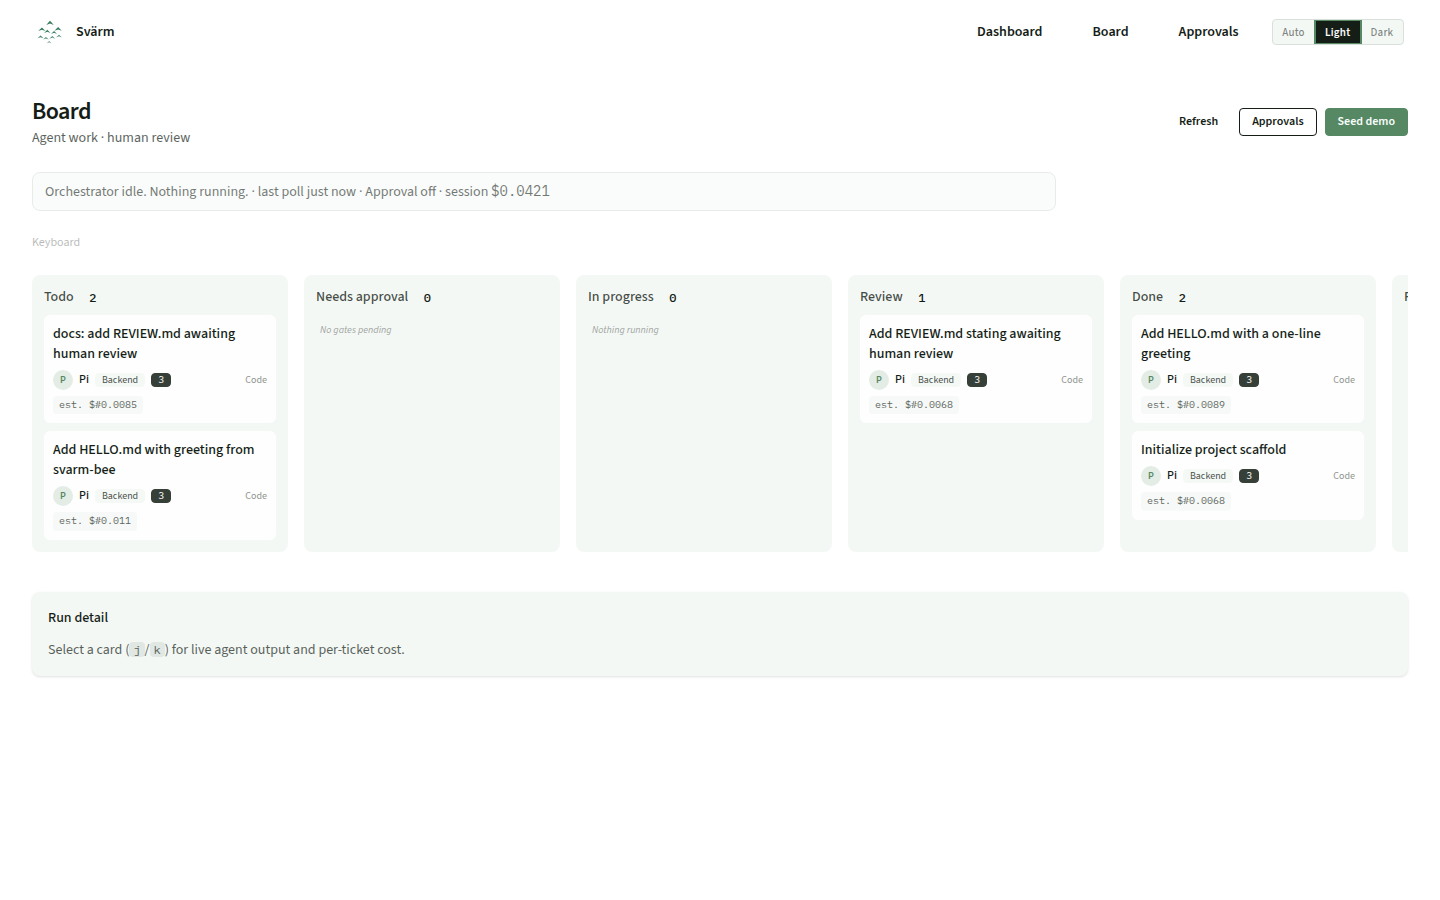
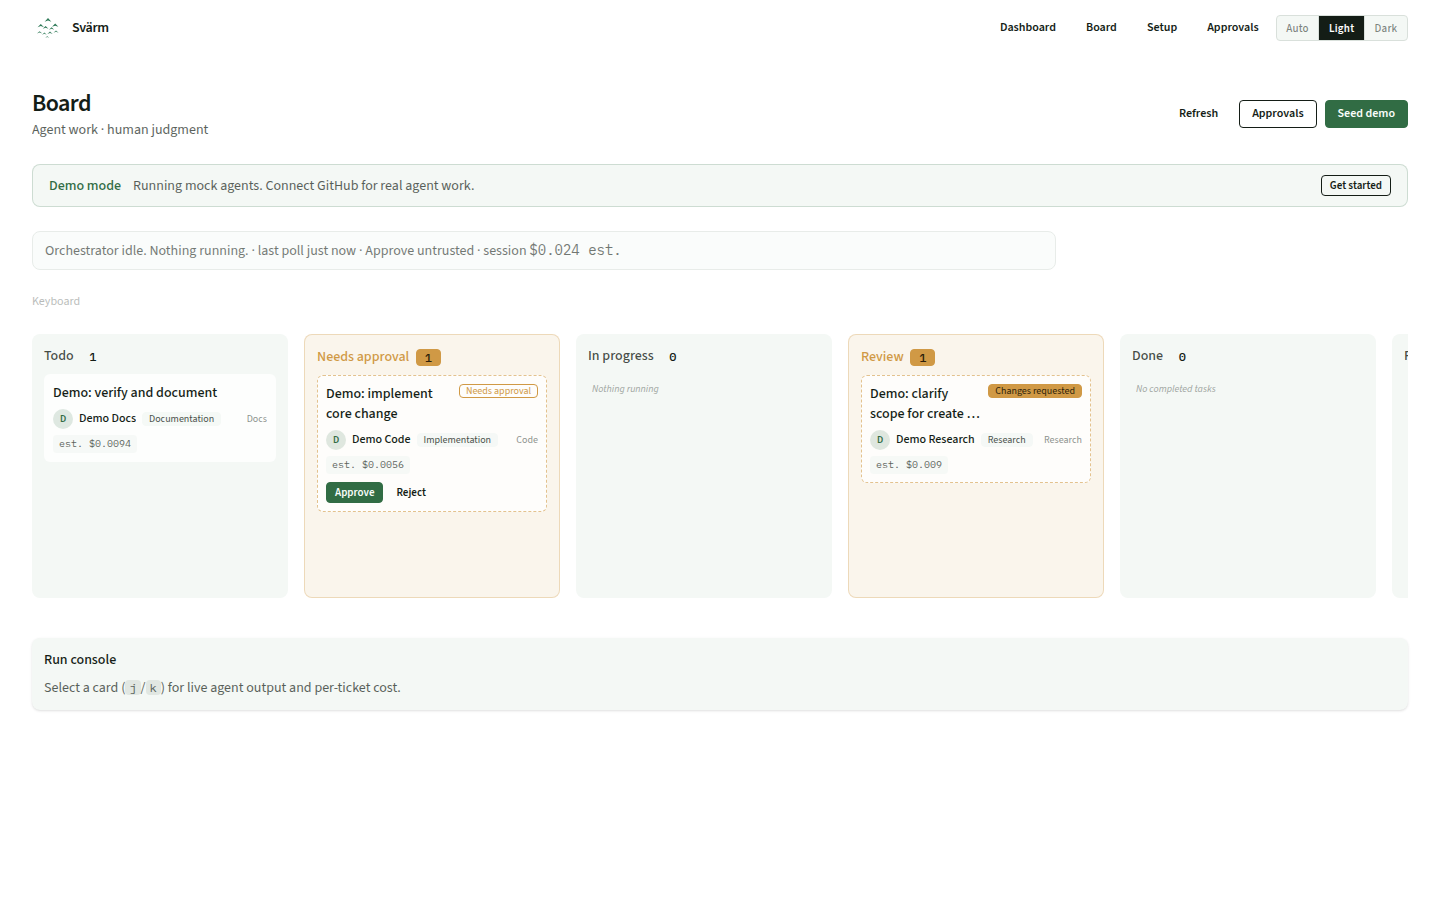
release: v0.1.4 run console and CI resume (#137)
* docs(screenshots): recapture README board, console, and dashboard

Replace stale 0.1.3-era shots with current light-theme UI: Setup in
nav, human judgment subtitle, typed run console, Changes requested
chip, and dashboard Spend Session/24h/7d plus Waiting on humans.

* release: cut v0.1.4 run console and CI resume

Bump mix.exs, move Unreleased into 0.1.4, point README Status at the
tag, and refresh STATUS. Review-resume stays detect-only.

---------

diff --git a/CHANGELOG.md b/CHANGELOG.md
@@ -7,10 +7,13 @@ and this project adheres to [Semantic Versioning](https://semver.org/spec/v2.0.0
 
 ## [Unreleased]
 
-Post-0.1.3 on `main` (not yet tagged): run console, optional CI resume, trust/perf hardening. Tagged release remains **v0.1.3**.
+## [0.1.4] - 2026-08-14
+
+Run console & CI resume. Optional CI-fail re-dispatch (default **off**). Review-resume is **detect-only** — no auto spawn (#113). No breaking env-inheritance change (that was 0.1.3).
 
 ### Added
 
+- **Typed stream run console** ([#110](https://github.com/svarm-dev/svarm/issues/110), [#111](https://github.com/svarm-dev/svarm/issues/111)): live path broadcasts v1 narrative, tool, and run events; BoardLive renders distinct chrome without duplicate compatibility lines; RunLog keeps a text projection and rehydrates compatible chrome on late join/re-selection (no schema change)
 - **Review-resume detection** ([#112](https://github.com/svarm-dev/svarm/issues/112)): poll GitHub PR reviews for managed tickets in **review**; record changes-requested state and show a board chip. **No auto re-dispatch** (follow-up #113). Same poll-on-tick path as CI Checks — no webhooks.
 - **Toolchain preflight contract** ([#108](https://github.com/svarm-dev/svarm/issues/108)): optional `tools` / `tools_mode` on agents (`fail` default, or `warn`); PATH-only check before spawn so missing host tools do not burn tokens; board `[toolchain: …]` note
 - **Sample skill pack `ai-task`** ([#52](https://github.com/svarm-dev/svarm/issues/52), [#124](https://github.com/svarm-dev/svarm/pull/124)): in-repo reference pack at `priv/packs/ai-task` (Docker `/app/packs/ai-task`); enable with `skills` on an agent — [docs/agents.md](docs/agents.md#sample-pack-ai-task)
@@ -24,7 +27,7 @@ Post-0.1.3 on `main` (not yet tagged): run console, optional CI resume, trust/pe
 
 - GETTING-STARTED journeys named by tracker topology, not lettered paths: **Feel the board** (local board, no tracker), **Real tracker loop** (external issue tracker — GitHub today), **Team hardening** ([#124](https://github.com/svarm-dev/svarm/pull/124))
 - Issue forms: **Ready to build** + **Epic** templates; Feature request clarified as ideas-only; CONTRIBUTING documents the forms
-- README Status lists post-0.1.3 capabilities on `main` (run console, optional CI resume) while **Current release** stays v0.1.3 until the next tag
+- README Status is **Current release: v0.1.4**; screenshots recaptured for current nav, run console, and dashboard spend chips ([#135](https://github.com/svarm-dev/svarm/issues/135), [#136](https://github.com/svarm-dev/svarm/issues/136))
 - README aligned with v0.1.3 governance floor: `/setup`, `APPROVALS_*` / budget env, agent env allowlist, estimated cost label, docs links ([#42](https://github.com/svarm-dev/svarm/pull/42))
 - Board card costs use SQL aggregates instead of per-card N+1 loads ([#66](https://github.com/svarm-dev/svarm/issues/66), [#93](https://github.com/svarm-dev/svarm/pull/93))
 - RunLog stream chunks coalesce in a buffer and append with SQL `content || ?` instead of full-row rewrite per delta ([#67](https://github.com/svarm-dev/svarm/issues/67), [#95](https://github.com/svarm-dev/svarm/pull/95))
@@ -185,7 +188,8 @@ Shipped surface in this cut: **local board + GitHub Issues + pi/CLI + OpenRouter
 
 - Agent credentials and API keys must come from the environment; never written into task metadata, PubSub events, or tracked config files
 
-[Unreleased]: https://github.com/svarm-dev/svarm/compare/v0.1.3...HEAD
+[Unreleased]: https://github.com/svarm-dev/svarm/compare/v0.1.4...HEAD
+[0.1.4]: https://github.com/svarm-dev/svarm/compare/v0.1.3...v0.1.4
 [0.1.3]: https://github.com/svarm-dev/svarm/compare/v0.1.2...v0.1.3
 [0.1.2]: https://github.com/svarm-dev/svarm/compare/v0.1.1...v0.1.2
 [0.1.1]: https://github.com/svarm-dev/svarm/compare/v0.1.0...v0.1.1

diff --git a/README.md b/README.md
@@ -147,19 +147,20 @@ GitHub App identity (bot comments): [docs/github-app.md](docs/github-app.md).
 
 ## Status
 
-**Current release: v0.1.3** (governance floor). **`main` is ahead** under [Unreleased](CHANGELOG.md) — next tag TBD.
+**Current release: v0.1.4** (run console & CI resume).
 
-**Working now (v0.1.3 + `main`):**
+**Working now:**
 
 - Local board + GitHub Issues + pi/CLI agents + OpenRouter
 - Approvals (one-shot after human approve); board mutations require `APPROVALS_*` in Docker/prod (**fail closed** if unset)
 - Per-ticket cost (estimated labeled); optional hard daily/per-ticket USD caps that block **new** spawns
 - Allowlisted agent child env; usage ledger export (`mix svarm.export_usage`)
 - Optional **in-app `/setup`** (encrypted keys; file/env still work); human-wait visibility on board/dashboard
-- **Run console** on the ticket — typed narrative/tool/run chrome, late-join from durable log, deep link `/board?task=…&attach=1` (on `main`)
-- Optional **CI fail → fresh agent re-dispatch** with circuit breaker (default **off**; enable via WORKFLOW / `SVARM_CI_RESUME_*` — on `main`)
+- **Run console** on the ticket — typed narrative/tool/run chrome, late-join from durable log, deep link `/board?task=…&attach=1`
+- Optional **CI fail → fresh agent re-dispatch** with circuit breaker (default **off**; enable via WORKFLOW / `SVARM_CI_RESUME_*`)
+- **Review-resume detection** — Changes requested chip when GitHub reviews ask for changes; **no auto re-dispatch** yet
 
-**Not shipped yet:** Linear/Jira trackers, multi-provider/multi-agent registry UI, managed hosting, mid-run budget kill of in-flight workers, steer / mid-run Q&A in the console, soft budget hold mode. "Adapter-ready" means the behaviours exist; it does not mean every adapter is built.
+**Not shipped yet:** review-resume spawn (#113), Linear/Jira trackers, multi-provider/multi-agent registry UI, managed hosting, mid-run budget kill of in-flight workers, steer / mid-run Q&A in the console, soft budget hold mode. "Adapter-ready" means the behaviours exist; it does not mean every adapter is built.
 
 Optional UI config after the demo: open `/setup` (same auth as `/approvals` in Docker). Details: [GETTING-STARTED.md](GETTING-STARTED.md).
 

diff --git a/STATUS.md b/STATUS.md
@@ -25,10 +25,10 @@ If nothing material changed, **do not** edit this file.
 
 | Field | Value |
 |-------|--------|
-| **Updated** | 2026-08-13 |
-| **`main`** | (this PR) review-resume GitHub changes-requested signal (#112) |
-| **Latest tag** | **v0.1.3** (2026-08-02) |
-| **Unreleased** | Run console, CI resume, skills inject, sample pack, toolchain preflight, typed stream console, review-resume detection — see CHANGELOG |
+| **Updated** | 2026-08-14 |
+| **`main`** | (this PR) v0.1.4 tag prep + README screenshots (#135, #136) |
+| **Latest tag** | **v0.1.4** (2026-08-14) |
+| **Unreleased** | — |
 | **Focus** | **[#113](https://github.com/svarm-dev/svarm/issues/113)** — review-resume: re-dispatch + shared circuit |
 | **Next** | mid-run Q&A children (#114–#116) |
 
@@ -45,6 +45,6 @@ Format: `YYYY-MM-DD · one sentence · issue/PR link`
 
 ## Session log (newest first, max 3)
 
+- 2026-08-14 · v0.1.4 cut + README screenshots (#135, #136); Focus stays #113
 - 2026-08-13 · review-resume GitHub changes-requested signal (#112); Focus → #113
 - 2026-08-13 · typed stream BoardLive chrome + restore tests (#111); Focus → #112
-- 2026-08-13 · typed stream Events/RunLog projection (#110); Focus → #111

diff --git a/docs/screenshots/README.md b/docs/screenshots/README.md
@@ -1,12 +1,12 @@
 # Screenshots for README
 
-Captured from a running local board (Playwright, light theme).
+Captured from a running local board (Playwright, light theme, 1440×900).
 
 | File | Content |
 |------|---------|
-| `board-seeded.png` | `/board` with tasks and estimated per-ticket cost |
-| `card-running.png` | Selected card + run panel cost breakdown |
-| `dashboard.png` | Agent roster, cost strip, task distribution, recent runs |
+| `board-seeded.png` | `/board` with demo cards, current nav (Dashboard / Board / Setup / Approvals), session cost, **Changes requested** chip |
+| `card-running.png` | Selected review card + typed **run console** (narrative log, cost, detection-only copy) |
+| `dashboard.png` | Waiting on humans, Spend card (Session / 24h / 7d), roster, task distribution, recent runs |
 
 A real GitHub bot cost-comment still is preferred for marketing when dogfooding (the real tracker loop). Until then, `dashboard.png` is the in-app cost surface.
 
